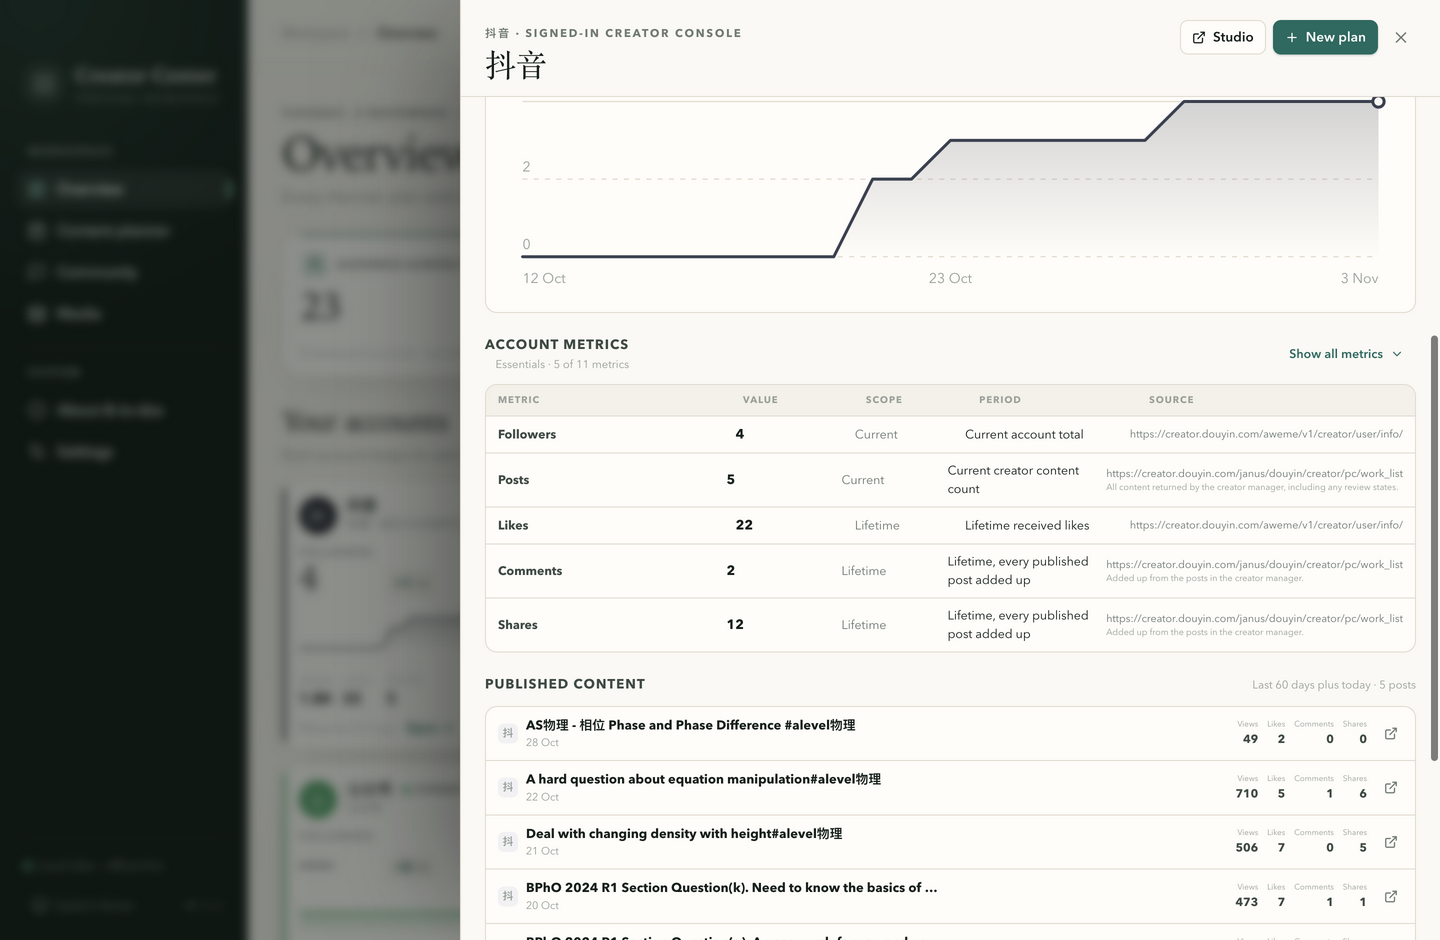
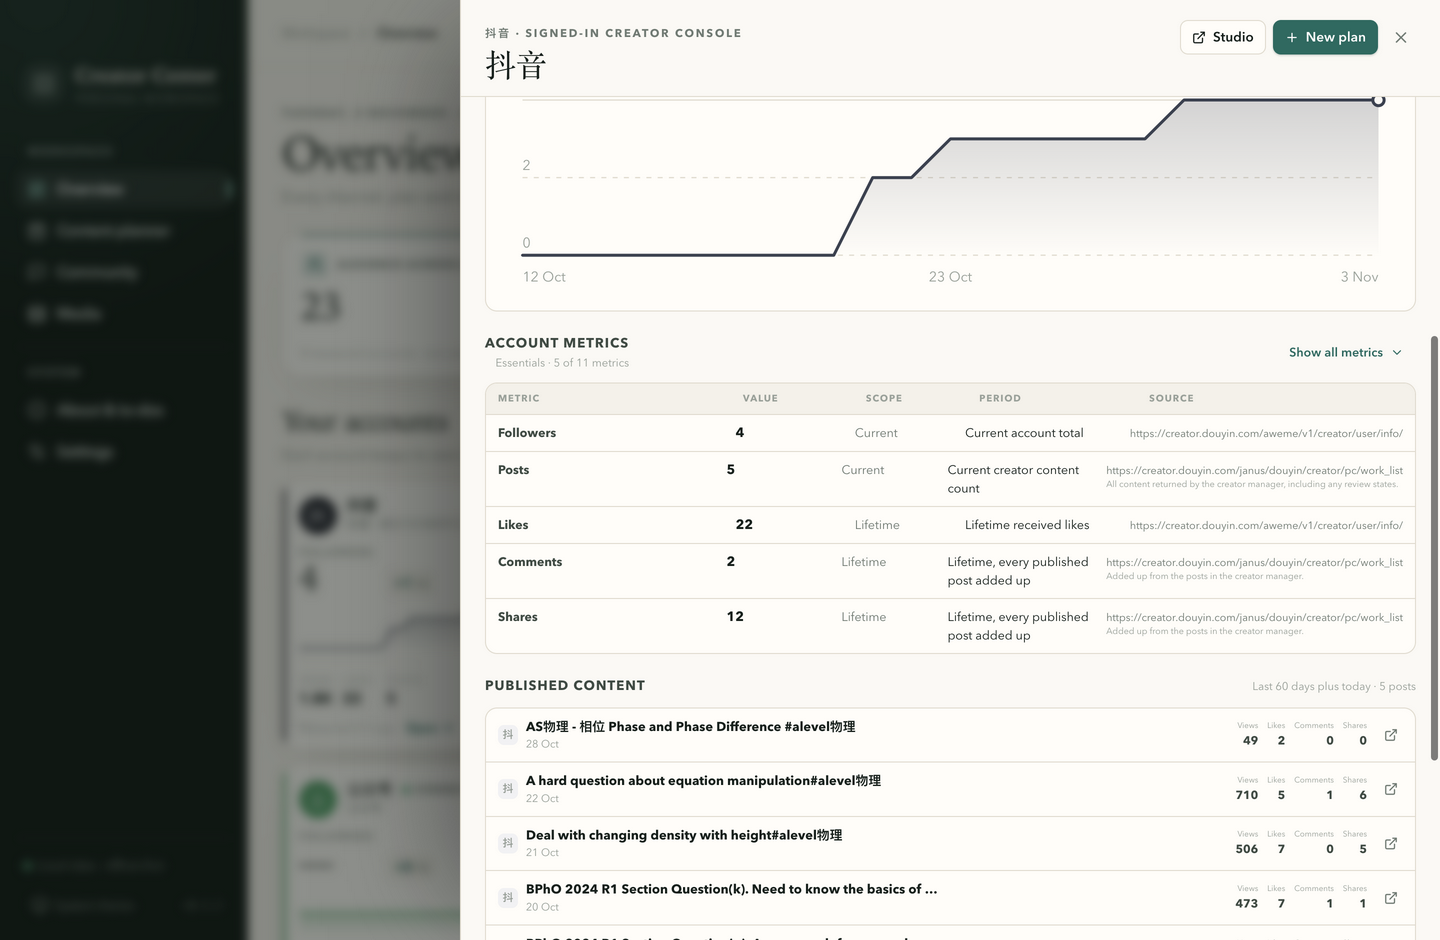
Baseline-align the account metric rows
When Period or Source wraps to two lines, the metric name, value and scope were centered
against the tall row, so they floated between the two lines. Align every row cell on its
first baseline so the text and numbers share a line.

Capture the essential and expanded states for the visual evidence.

diff --git a/apps/web/src/pages/About.tsx b/apps/web/src/pages/About.tsx
@@ -24,7 +24,7 @@ const CHANGELOG = [
       'Added an opt-in importer for the old SQLite workspace: accounts, metrics, history, posts, plans, tags, merges, to-dos and Community history.',
       'Every import previews the source first, requires an empty workspace, creates a timestamped database backup, and preserves media project metadata for the media increment.',
       'Old browser sessions and YouTube tokens are deliberately not imported; accounts reconnect after migration.',
-      'The per-account metric table is now labelled Account metrics, and the import file actions line up with the database field.',
+      'The per-account metric table is now labelled Account metrics, its rows share a first-line baseline, and the import file actions line up with the database field.',
     ],
   },
   {

diff --git a/apps/web/src/styles.css b/apps/web/src/styles.css
@@ -3129,7 +3129,7 @@ button:disabled {
   display: grid;
   grid-template-columns: 1.25fr 0.6fr 0.55fr 0.85fr 1.35fr;
   gap: 10px;
-  align-items: center;
+  align-items: baseline;
   padding: 8px 12px;
 }
 

diff --git a/docs/screenshots/README.md b/docs/screenshots/README.md
@@ -44,20 +44,25 @@ opens collapsed to followers, posts, likes, comments and shares, and expands to 
 The source path shown in the captures is the scrubbed database supplied for validation; the
 importer opens it read-only and never writes to it.
 
-## UI follow-up: metric card name and import actions (v0.1.2)
+## UI follow-up: metric card name, row alignment and import actions (v0.1.2)
 
-Both pairs use the 1440 × 940 viewport and the light theme. The account-metric pair uses the same
-imported 抖音 account; the import-action pair uses the same non-empty workspace. Before is the
-v0.1.2 head at `9aeb7bb`; after is the follow-up commit.
+All pairs use the 1440 × 940 viewport and the light theme. The account-metric and alignment pairs
+use the same imported 抖音 account; the import-action pair uses the same non-empty workspace. The
+naming and import-action pairs start from the v0.1.2 head at `9aeb7bb`; the alignment pair starts
+from the follow-up head at `c2a7bb7`. After is the follow-up commit.
 
 | Before — "Metric detail" | After — "Account metrics" |
 | --- | --- |
 | ![Before metric card](before-followup-account-metrics.png) | ![After account metrics](after-followup-account-metrics.png) |
 | ![Before import actions](before-followup-import-actions.png) | ![After import actions](after-followup-import-actions.png) |
+| ![Before metric alignment](before-followup-metric-alignment.png) | ![After metric alignment](after-followup-account-metrics.png) |
 
 The table is now labelled `Account metrics`, making it clear that the card belongs to the
 per-account drawer. `Choose file` and `Preview` now sit on the same row as the database field
-instead of aligning to the bottom of its hint.
+instead of aligning to the bottom of its hint. Metric rows now share a first-line baseline, so
+a wrapped Period or Source no longer leaves the name, value and scope floating between its two
+lines. [after-followup-metric-alignment-expanded.png](after-followup-metric-alignment-expanded.png)
+shows the expanded 11-metric state, including availability badges.
 
 ## Original first increment
 
